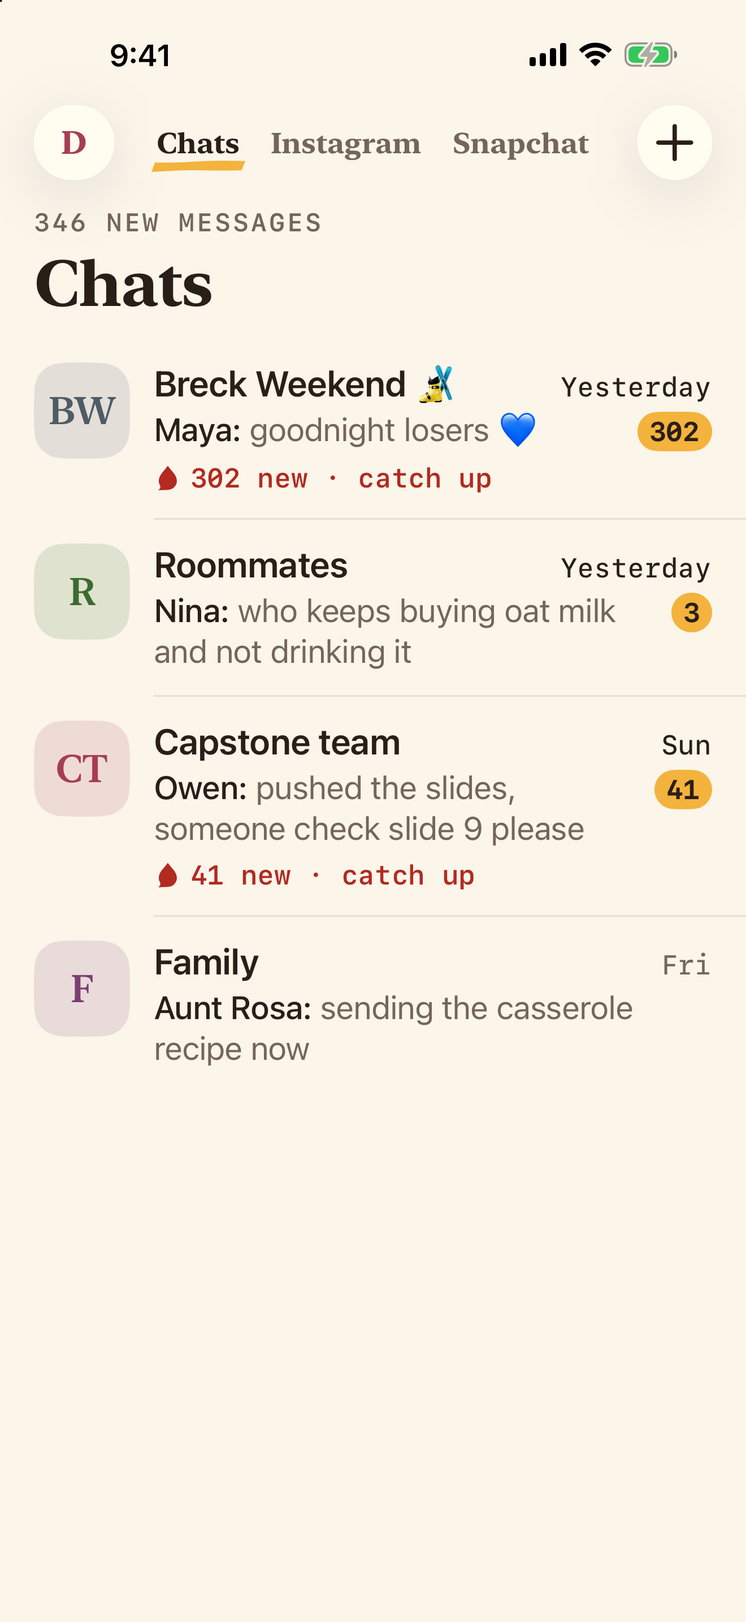
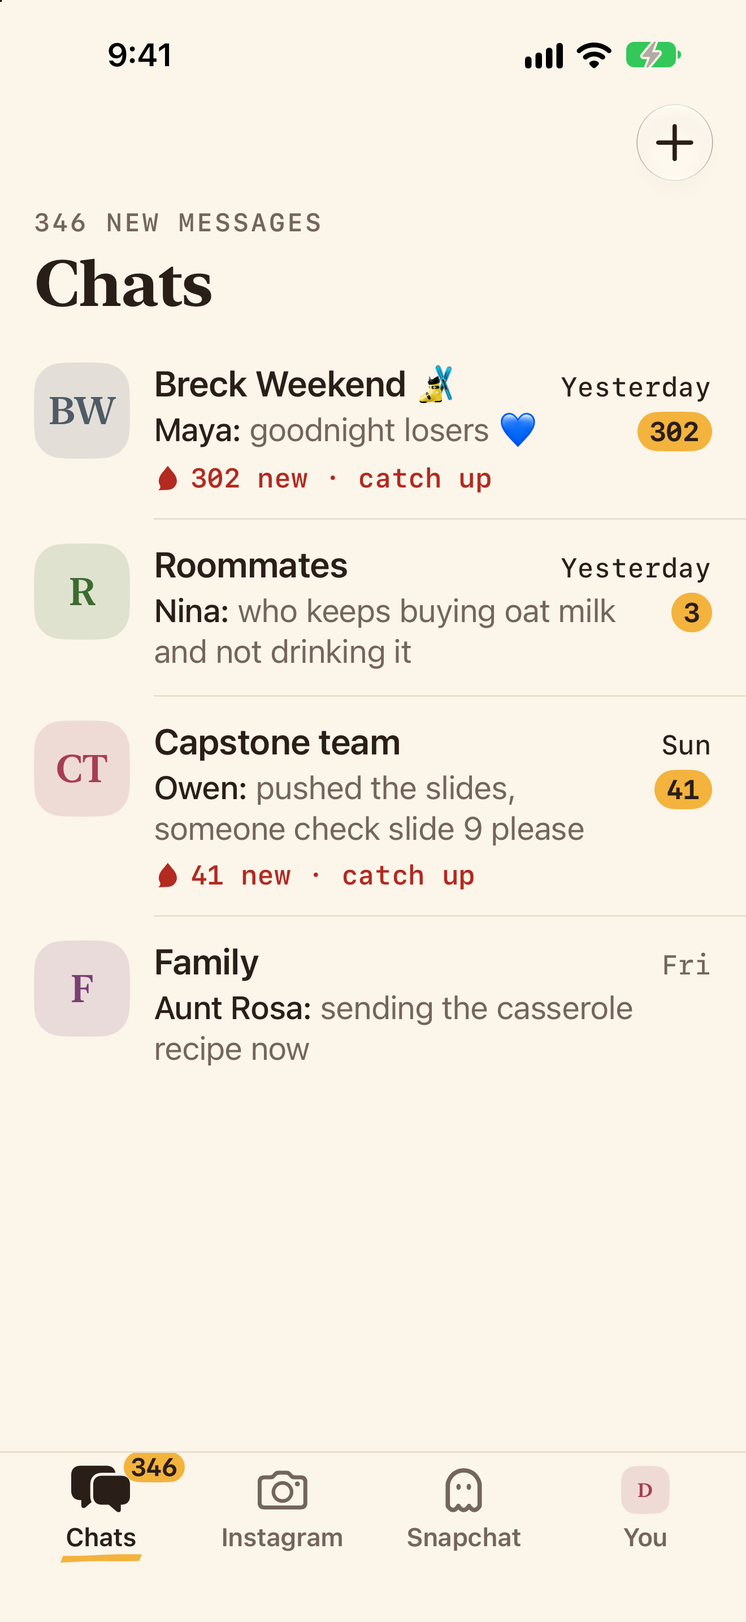
iOS tabs: docs and screenshots for the tab bar and the You tab
- the project notes: a Home tabs section (how tabs are kept, hosted roots,
  keyboard, previews, what was checked on Nov 3, 2026 and what wasn't),
  and the Settings, Photos and web-chat notes point at the You tab, the
  tab bar and the circle instead of the pager and the account button.
- README and DESIGN.md: the tab bar, the You tab, the Catch me up circle.
- Screenshots retaken where the old switcher, account button or pill
  showed: redesign inbox, home-instagram, home-snapchat and the XXL pair,
  people settings-sheet, photos inbox, speed inbox-loading, webchat
  web-instagram and web-snapchat. home-swipe-light (a pager mid-swipe)
  is gone with the pager.

diff --git a/docs/DESIGN.md b/docs/DESIGN.md
@@ -93,23 +93,28 @@ Always use text styles so Dynamic Type works. The wordmark is the only fixed siz
 
 The old purple names (`Theme.accent`, `aiGradient`, `aiDiagonal`, `aiWash`, `indigo`, `violet`, `pink`, `aiSymbol`, `aiName`) still compile but are deprecated and mapped flat onto this palette. Each warning is a spot still to restyle.
 
-## Pager
+## Tabs
 
-After sign-in, the home is three pages side by side: **Chats** (the inbox, first), **Instagram** and **Snapchat** (`ios/Ketchup/Views/HomePager.swift`). Swipe between them or tap a name. The app comes back to the page you were on last (`@AppStorage("home.page")`).
+After sign-in, the home is four tabs along the bottom: **Chats** (the inbox, first), **Instagram**, **Snapchat** and **You** (`ios/Ketchup/Views/HomeTabs.swift`). The app comes back to the tab you were on last (`@AppStorage("home.page")`).
 
 <p>
-<img src="screens/redesign/inbox-light.png" width="200" alt="Chats, with the switcher in its top bar">
-<img src="screens/redesign/home-swipe-light.png" width="200" alt="Mid-swipe: the mustard mark slides from Chats toward Instagram">
-<img src="screens/redesign/home-instagram-dark.png" width="200" alt="The Instagram page under the switcher, dark">
-<img src="screens/redesign/home-snapchat-light.png" width="200" alt="The Snapchat page under the switcher">
+<img src="screens/redesign/inbox-light.png" width="200" alt="Chats, with the tab bar along the bottom">
+<img src="screens/redesign/home-instagram-dark.png" width="200" alt="The Instagram tab with the Catch me up circle, dark">
+<img src="screens/redesign/home-snapchat-light.png" width="200" alt="The Snapchat tab's first-visit card">
+<img src="screens/photos/inbox-light.png" width="200" alt="David's photo as the You tab's icon">
 </p>
 
-- **The switcher** sits in the middle of the Chats page's top bar, between its glass buttons: the names in New York, ink for the page you're on, `inkSoft` for the rest, and a mustard `MarkerStroke` under the current one that slides along as the pages scroll. Like a bar title it keeps its size past the default text size (long-press shows it big at accessibility sizes). The other pages leave that row free above their own bar.
-- **Paging is the system's** (a paging `ScrollView`). A tap on a name scrolls there with `Motion.settle`, or jumps with Reduce Motion on.
-- **In a chat the pages stay put** and the switcher fades out (`Motion.fade`), so the chat's back swipe works and its title takes the middle of the bar. The Chats page says so through `HomePagerState.locked`.
-- **Over a web page** a sideways swipe still pages, unless the page can scroll sideways itself (zoomed in, a wide carousel): then the page gets it, and the switcher still works. Vertical scrolling and taps are always the page's. From the left edge the pager wins even when the site could go back; the bar's back button does that.
-- **A page is built the first time you head its way**, then kept: a web page doesn't load until you go there, and doesn't reload as you swipe past.
-- **`HomePage.all`** lists the pages, left to right, and `HomePage.content` says what each shows: another chat app is one more `.web(…)` in the list.
+- **The bar is paper, not glass.** Cream under a 1 pt hairline. The tab you're on is ink, with a filled icon and a mustard `MarkerStroke` under its name that slides over as you switch (a fade with Reduce Motion); the others are inkSoft and outlined. No ketchup: that's for the page's one button.
+- **The icons:** two bubbles for Chats, a camera for Instagram, a ghost drawn in the app for Snapchat (SF Symbols has none), and your own photo for You (your initials until there is one, and an ink ring when it's the tab you're on). Chats carries the inbox's unread count in a mustard badge.
+- **Like a system bar** it stops growing at Extra Extra Large text, and a long press shows a tab big at accessibility sizes (Large Content Viewer). VoiceOver reads it as a tab bar, with the unread count on Chats.
+- **Every tab keeps its place.** A tab is built the first time you open it, then kept: a web page loads once, stays signed in and doesn't reload as you switch back and forth.
+- **In a chat the bar steps aside** (`Motion.fade`), so the chat's input bar has the bottom of the screen, and comes back with the inbox. The Chats tab says so through `HomeTabsState.locked`.
+- **The keyboard covers the bar.** Over a site, the page keeps its size and the site moves its own message box, as in Safari.
+- **`HomeTab.all`** lists the tabs, left to right: another chat app is one more `.web(…)` in the list.
+
+### The You tab
+
+Your profile, built from Settings' and People's pieces (`ios/Ketchup/People/YouView.swift`): how many chats you're in as a kicker over your name in New York, your email and your photo (`AccountHeader`, also Settings' header); **Your people**, each with their photo and a chevron to their profile (`PeopleList`, as on Your people); an outline **Invite friends**; **Privacy** with Blocked people; and **Account** with a Settings row that opens Settings as a sheet. Like Settings, it has no ketchup button.
 
 ## Photos
 
@@ -119,14 +124,14 @@ A profile photo is a print pinned to the paper: the same rounded square as a mon
 <img src="screens/photos/crop-light.png" width="200" alt="Frame it: a mountain photo under a rounded-square window cut in the paper">
 <img src="screens/photos/chat-light.png" width="200" alt="Photos by the last bubble of each sender's run">
 <img src="screens/photos/info-dark.png" width="200" alt="Members with their photos, Sam with his monogram, dark">
-<img src="screens/photos/inbox-light.png" width="200" alt="David's photo on the account button">
+<img src="screens/photos/inbox-light.png" width="200" alt="David's photo as the You tab's icon">
 </p>
 
 | Piece | What it does |
 |---|---|
 | `AvatarCropper` | "Frame it": the picked photo under paper with a rounded-square window cut out; drag and pinch, the photo always covers the window. "Use photo" is the one ketchup button and says "Saving" until the upload is done. VoiceOver can zoom with swipe up and down. |
 | In a chat | Other people's photos sit by the last bubble of each run, bottom-aligned, 28 pt. Mine get none. |
-| Account button | My photo inside the top bar's glass button. Its menu adds, changes or removes the photo (until Settings takes that over). |
+| You tab | My photo is the You tab's icon (an ink ring around it when it's the tab you're on), and sits big in the You tab's header and in Settings'. |
 | `PhotoBubble` | A chat photo in the thread: its own shape (between 1:2 and 2.2:1), at most 240 pt wide, laid out from its stored size before it loads. The caption sits under it in the same bubble, on card paper (theirs) or ink (mine), with a text bubble's run corners. Tap to open. |
 | Upload ring | While my photo uploads: an ink ring filling a hairline track on a cream disc over the photo. "Not sent. Tap to retry" if it fails, like text. |
 | Composer | A photo button before the field (`ChatInputBar(onPhoto:)`). The picked photo waits above the field with an ink x to take it off; the field says "Add a caption", and the ketchup send works with or without words. |
@@ -210,19 +215,19 @@ Each chat's last 3 catch-ups and last 3 Ask answers stay on the phone (`Store/Sa
 
 ## Web chats (Instagram and Snapchat)
 
-Experimental and not released. `WebChatTab(source:)` (`ios/Ketchup/WebChat/`) is one page of the signed-in home per app: the site's own web page under a slim bar, and Catch me up for the thread that's open. Snapchat only runs its computer version, so its page is laid out 1024 points wide and shrunk to fit; pinch to zoom. Screenshots: `screens/webchat/` (the synthetic test threads, made-up people).
+Experimental and not released. `WebChatTab(source:)` (`ios/Ketchup/WebChat/`) is one tab of the signed-in home per app: the site's own web page under a slim bar, and Catch me up for the thread that's open. Snapchat only runs its computer version, so its page is laid out 1024 points wide and shrunk to fit; pinch to zoom. Screenshots: `screens/webchat/` (the synthetic test threads, made-up people).
 
 <p>
-<img src="screens/webchat/web-instagram-light.png" width="200" alt="Instagram's page under the slim bar, with the Catch me up pill">
+<img src="screens/webchat/web-instagram-light.png" width="200" alt="Instagram's page under the slim bar, with the Catch me up circle">
 <img src="screens/webchat/web-reading-light.png" width="200" alt="Reading 88 messages: the skim of the thread's own messages">
 <img src="screens/webchat/web-brief-light.png" width="200" alt="The brief, credited Read by Muse Spark · 88 Instagram messages">
-<img src="screens/webchat/web-snapchat-light.png" width="200" alt="Snapchat's computer page, shrunk to fit under the slim bar, with the Catch me up pill">
+<img src="screens/webchat/web-snapchat-light.png" width="200" alt="Snapchat's computer page, shrunk to fit under the slim bar, with the Catch me up circle">
 </p>
 
 | Piece | What it does |
 |---|---|
 | `WebChatBar` | The site's name in New York, `Kicker("Experimental")` under it, back and a … menu on the right. A hairline under it. Done only when the page is shown full screen. |
-| The Catch me up pill | The page's one ketchup thing, floating over the site: the drop, "Catch me up", and "Last 30, 80 or 120 messages" in mono. It's a menu, since the site doesn't say what's unread. While it reads: "Reading the chat", "Scrolling back for older messages". |
+| The Catch me up circle | The page's one ketchup thing: a small ketchup circle with the drop, floating on the right edge just above the site's message box, so it covers little of the chat. VoiceOver calls it "Catch me up". It's a menu of the last 30, 80 or 120 messages, since the site doesn't say what's unread. While it reads, it opens into a pill with a spinner and "Reading the chat". |
 | `WebChatIntro` | First visit only: a paper card that says plainly what happens (sign in on the site's own page, only the open chat, only on tap, your friends' messages go to Muse Spark, the catch-up stays on this phone and never on Ketchup's server, not released), plus the site's own note when it needs one (Snapchat: its computer page, shrunk to fit), with a ketchup "Got it". |
 | `WebChatSheet` | The same pieces as a chat's catch-up: `SheetBar`, `SkimmingView` on the thread's own messages, `CatchUpContent`, `AIErrorCard`, and Ask's `NotepadField` and `AnswerCard`. The byline names the source ("88 Instagram messages"); a quiet footer says what it covered and that it's experimental. |
 | `WebQuoteCard` | A source chip can't jump into the site, so it opens the whole message: the sender's monogram and color, the text, "About Sat 9:15 PM", "Kept on this phone with the catch-up." |
@@ -232,7 +237,7 @@ Experimental and not released. `WebChatTab(source:)` (`ios/Ketchup/WebChat/`) is
 
 ## Settings
 
-Settings (`ios/Ketchup/People/`) is a sheet from your initial at the top left of Chats. Screenshots: `screens/people/`.
+Settings (`ios/Ketchup/People/`) is a sheet from the You tab. Screenshots: `screens/people/`.
 
 <p>
 <img src="screens/people/settings-light.png" width="200" alt="Settings: your name and email, Change your name, the web chats' sign-outs, Account">
@@ -245,7 +250,7 @@ Settings (`ios/Ketchup/People/`) is a sheet from your initial at the top left of
 |---|---|
 | `SettingsSection("You", kicker:footer:)` | A `SectionTitle` (and a kicker, under it when both don't fit) over rows on one `paperCard`, hairlines between them. Rows that draw nothing take no room, and a section with no rows doesn't show, so a slot can sit empty. |
 | `SettingsRow(_:systemImage:value:detail:destructive:chevron:)` | One row: an `inkSoft` icon, the label, a value on the right, or a `detail` line under a long label ("Nothing saved"). `destructive` is `ketchupText` (Delete account). At accessibility sizes the value goes under the label. Use it as a button's or link's label with `.pressable`. |
-| The header | A "Settings" kicker over your name in New York and your email, with your monogram on the right. |
+| The header | `AccountHeader`: a "Settings" kicker over your name in New York and your email, with your photo (or monogram) on the right. The You tab uses it with how many chats you're in as the kicker. |
 | About | A colophon on paper: the drop, the `Wordmark`, the version in a kicker, `MuseByline`, and the hackathon line. |
 
 - **Settings has no ketchup button.** Delete account is the one red row; its page has the one ketchup button, "Delete my account", and a system alert asks once more.
@@ -310,13 +315,13 @@ xcrun simctl launch --terminate-running-process <udid> com.vibetemp.ketchup -scr
 |---|---|
 | `list` | Every name; tap one to open it |
 | `design` | This system, live. Add `-section brand`, `buttons`, `marker`, `type`, `people`, `paper` or `colors` to scroll there |
-| `signin`, `signin-code`, `name`, `home`, `home-instagram`, `inbox`, `inbox-loading`, `inbox-empty`, `new-chat`, `join`, `chat`, `chat-loading`, `chat-kept`, `chat-jump`, `chat-joined`, `info`, `icon` | The chat screens (`Debug/CorePreviewScreen.swift`). `chat-joined` is the end of Breck, read through Maya's goodnight, then Rowan (made up) joins and says hi: "Rowan joined" under "1 new" (`Debug/JoinedPreview.swift`). `home` opens the pager on Chats (the same screen as `inbox`), `home-instagram` on the Instagram page with the synthetic test thread, offline (add `-KetchupInstagramFixture NO` for the real site). `inbox-loading` and `chat-loading` are the skeletons; `chat-kept` opens Breck on a copy kept on the phone with no server. `chat-jump` stages the jump-to-message highlight; `icon` renders the app icon. `-reduceMotion YES` works here too, and `-send "on my way"` sends that 1.2 s in on the chat screens |
+| `signin`, `signin-code`, `name`, `home`, `home-instagram`, `home-snapchat`, `home-you`, `inbox`, `inbox-loading`, `inbox-empty`, `new-chat`, `join`, `chat`, `chat-loading`, `chat-kept`, `chat-jump`, `chat-joined`, `info`, `icon` | The chat screens (`Debug/CorePreviewScreen.swift`). `chat-joined` is the end of Breck, read through Maya's goodnight, then Rowan (made up) joins and says hi: "Rowan joined" under "1 new" (`Debug/JoinedPreview.swift`). `home` opens the tabs on Chats (the same screen as `inbox`); `home-instagram`, `home-snapchat` and `home-you` open on those tabs, the web ones on their synthetic test threads, offline (add `-KetchupInstagramFixture NO` for the real site, `-webchat.instagram.introSeen YES` to skip the first-visit card). `-openChat YES` opens Breck 1.2 s in, so the tab bar steps aside. `inbox-loading` and `chat-loading` are the skeletons; `chat-kept` opens Breck on a copy kept on the phone with no server. `chat-jump` stages the jump-to-message highlight; `icon` renders the app icon. `-reduceMotion YES` works here too, and `-send "on my way"` sends that 1.2 s in on the chat screens |
 | `ai-catchup`, `ai-checked`, `ai-loading`, `ai-loading-blank`, `ai-error`, `ai-empty`, `ai-ask`, `ai-ask-loading`, `ai-ask-error`, `ai-answer`, `ai-notfound` | The Muse Spark screens (`Debug/AIPreviewScreen.swift`). `ai-loading-blank` is the skim before the thread's messages are here. Add `-section for-you`, `plans`, `owes`, `questions` or `highlights` to scroll the brief there, `-delay 4` to land it late, `-reduceMotion YES` to see the Reduce Motion version |
 | `saved`, `saved-brief`, `saved-empty`, `saved-quote`, `saved-all` | Saved catch-ups (`Debug/SavedPreviewScreen.swift`) on a scratch store: Breck's Earlier catch-ups, opened on its catch-up, empty, a source shown as kept, and every chat's list in its Settings bar |
 | `brief-history`, `brief-nothing-new`, `brief-chat` | The catch-up sheet with Breck's last 3 catch-ups kept (`Debug/SavedPreviewScreen.swift`): Earlier catch-ups over a new catch-up; Catch me up with nothing new since the last one (add `-section earlier` for the row under it); and the thread, all read, with "Your catch-up" in its bar |
 | `store-check` | Not a screen: runs the on-device copy and saved catch-ups (`Store/DeviceStore.swift`) against a scratch folder and lists what passed (`Debug/StoreCheckScreen.swift`) |
 | `web-instagram`, `web-snapchat`, `web-intro`, `web-reading`, `web-brief`, `web-error`, `web-quote` | The web-chat screens (`Debug/WebChatPreviewScreen.swift`) on the synthetic threads. `web-instagram` and `web-snapchat` are each page on its bundled fixture; `web-brief` is a hand-written brief, not a Muse Spark call |
-| `settings`, `settings-sheet`, `settings-name`, `settings-delete`, `settings-blocked`, `profile`, `profile-blocked`, `report`, `report-sent`, `info-blocked`, `chat-profile`, `chat-report`, `people`, `people-empty`, `profile-contact`, `new-chat-people`, `invite` | Settings and the people screens (`Debug/PeoplePreviewScreen.swift`), on the demo chat's made-up friends. `settings` is full screen (add `-section web`, `account` or `about`); `settings-sheet` is the sheet as the inbox opens it; `chat-profile` and `chat-report` open over the Breck thread. `-renameTo Dave` here (and `-leave YES` on `home`) acts 1.2 s in; add `-serverRefuses YES` for the way back |
+| `settings`, `settings-sheet`, `settings-name`, `settings-delete`, `settings-blocked`, `profile`, `profile-blocked`, `report`, `report-sent`, `info-blocked`, `chat-profile`, `chat-report`, `people`, `people-empty`, `profile-contact`, `new-chat-people`, `invite` | Settings and the people screens (`Debug/PeoplePreviewScreen.swift`), on the demo chat's made-up friends. `settings` is full screen (add `-section web`, `account` or `about`); `settings-sheet` is the sheet as the You tab opens it; `chat-profile` and `chat-report` open over the Breck thread. `-renameTo Dave` here (and `-leave YES` on `home`) acts 1.2 s in; add `-serverRefuses YES` for the way back |
 | `photo-crop`, `photo-inbox`, `photo-chat`, `photo-info`, `photo-thread`, `photo-sending`, `photo-attach`, `photo-viewer`, `photo-catchup`, `photo-answer` | Photos (`Debug/PhotosPreviewScreen.swift`): the cropper on a made-up mountain photo; the inbox, the Breck thread and its members with made-up profile photos (`Debug/PreviewPhotos.swift`; Sam has none, to show the monogram); the end of Breck with photos in it, David's photo uploading (a pretend 20 s upload), one waiting in the composer, and the viewer on Maya's cabin; `photo-catchup` (add `-section highlights`) and `photo-answer` cite Maya's door-code photo with its thumbnail |
 
 Light and dark screenshots:

diff --git a/CLAUDE.md b/CLAUDE.md
@@ -82,6 +82,32 @@ the technical recipe. README.md is the judge-facing overview.
   Data: `Debug/PreviewData.swift` over `Debug/Fixtures/`; screens: `Debug/CorePreviewScreen.swift`, `Debug/AIPreviewScreen.swift`.
 - Keep preview code inside `#if DEBUG`; a Release build (`-configuration Release CODE_SIGNING_ALLOWED=NO`) must still compile.
 
+## Home tabs (`ios/Ketchup/Views/HomeTabs.swift`, since Nov 3, 2026)
+- After sign-in the home is a tab bar along the bottom: Chats, Instagram, Snapchat, You
+  (`HomeTab.all`; another chat app is one more `.web(…)`). It replaced the top swipe pager.
+  The bar is ours, not the system's glass: cream, a hairline, ink, a mustard mark under the
+  current tab, the inbox's unread count on Chats, your photo as You's icon. It stops growing
+  at Extra Extra Large text (long press shows a tab big). The app reopens on the last tab
+  (`home.page`).
+- Every tab is built the first time it's opened, then kept (hidden by opacity, never torn
+  down), so the Instagram and Snapchat web views load once and keep their place and sign-in.
+  Chats and You are each their own hosting root (`HostedPage`), full screen, so a chat's
+  input bar meets the keyboard as on a whole screen; a hidden root takes no touches. The web
+  tabs stay plain views between the status bar and the bar, and the home ignores the
+  keyboard, so a site's page keeps its size under it as in Safari (WebKit moves it).
+- While a chat is open the bar steps aside (`HomeTabsState.locked`, set by ChatsListView)
+  and the chat gets the whole screen. The inbox keeps its last row clear of the bar with
+  `safeAreaPadding`; You's pages get the bar as safe area (`additionalSafeAreaInsets`).
+- Previews: `home` (Chats), `home-instagram`, `home-snapchat` and `home-you`; the web tabs
+  open their synthetic threads (add `-webchat.instagram.introSeen YES`, or snapchat, to skip
+  the first-visit card). `-openChat YES` opens Breck 1.2 s in, so the bar steps aside.
+- Checked Nov 3, 2026 on the iPhone 17 Pro Max sim (iOS 27) with a temporary DEBUG probe
+  (since removed) that switched tabs 8 times on a timer: each web view loaded once and stayed
+  the same instance, a touch at mid-screen always reached the visible tab, the chat's field
+  moved from y 883 to 570 with the keyboard at 609 (once, not twice), and You's safe area
+  bottom was 90.3 pt (34 + the 56.3 pt bar). Not checked: typing into a site's message box
+  (needs a real tap) and the real sites.
+
 ## Kept on the phone, and skeletons (`ios/Ketchup/Store/`, `Design/Skeletons.swift`)
 - `DeviceStore` keeps the inbox (`inbox.json`: the my_chats rows and your profile) and each
   chat's newest 400 messages and members (`threads/<chat>.json`) in
@@ -171,12 +197,14 @@ safe to re-run) adds two made-up photos on the last day, so a catch-up can cite 
 
 ## Settings and people (migration 0007)
 Code: `ios/Ketchup/People/` (`SettingsView`, `AccountPages`, `SettingsPieces`, `Account.swift`,
-`ProfileView`, `ReportView`, `BlockedPeopleView`, `PeopleView` with `PeoplePicker`, `InviteView`,
-`PeopleStore`, `PeopleModels`),
+`ProfileView`, `ReportView`, `BlockedPeopleView`, `PeopleView` with `PeoplePicker` and `PeopleList`,
+`InviteView`, `YouView`, `PeopleStore`, `PeopleModels`),
 `Net/PeopleAPI.swift`, `WebChat/WebChatSignOut.swift`, edge functions `delete-account` and
-`report-alert`. Settings opens from the inbox's top-left
-photo (your initial until you add one) as a sheet; signing out waits for the sheet to close (`SettingsExit`, the sheet's
-`onDismiss` in `ChatsListView`), so it can't be left over sign-in.
+`report-alert`. The You tab (`YouView`) is your photo, name and email
+(`AccountHeader`, shared with Settings), your people (`PeopleList`), Invite friends, Blocked
+people (`PrivacySection`) and a Settings row. Settings opens from it as a sheet; signing out waits
+for the sheet to close (`SettingsExit`, the sheet's `onDismiss` in `YouView`), so it can't be
+left over sign-in.
 - `0007_people.sql` is one file applied live in parts, one `apply_migration` per slice, each
   named `0007_people_<part>` (so far `0007_people_account`, `0007_people_account_photos`,
   `0007_people_blocks_reports`, `0007_people_reports_index`, `0007_people_delete_files`,
@@ -196,7 +224,7 @@ photo (your initial until you add one) as a sheet; signing out waits for the she
   the RLS suite's "deleted account" checks (rolled back). A live test deletes a real account:
   use a throwaway account, never a seed one (their messages are the demo chat) or David's.
 - While a delete is on its way, its page hides Back and Settings holds Done and swipe-down;
-  if the sheet is gone anyway when it finishes, ChatsListView signs out at once. Leaving
+  if the sheet is gone anyway when it finishes, YouView signs out at once. Leaving
   (Sign out or a deleted account) forgets the Instagram and Snapchat sign-ins in Ketchup
   (`AppModel.leave`). Offline previews never touch the real website data: `leave` and the
   web-chat rows skip it while previewing.
@@ -244,7 +272,7 @@ photo (your initial until you add one) as a sheet; signing out waits for the she
   from the top view controller, then `MFMessageComposeViewController`; the simulator can't
   text, so it falls back to the share sheet. Tap-through needs a real phone.
 - Previews: `-screen settings` (add `-section web`, `account` or `about`), `settings-sheet`
-  (opened by the real inbox, `-KetchupOpenSettings`), `settings-name`, `settings-delete`,
+  (opened by the real You tab, `-KetchupOpenSettings`), `settings-name`, `settings-delete`,
   `settings-blocked`, `profile`, `profile-blocked`, `report`, `report-sent`, `info-blocked`,
   `chat-profile` and `chat-report` (the sheets opened from the thread), `people`,
   `people-empty`, `profile-contact`, `new-chat-people`, `invite`. The account email in
@@ -295,8 +323,8 @@ Code: `ios/Ketchup/Photos/` (`Avatar`, `AvatarCropper`, `ProfilePhotos` with
 - Source chips: `RefContext.photo` returns a message's small copy, and `RefChip` draws it
   where the sender's dot goes (`ChatView.refContext` passes it).
 - Settings has Add a photo (Change your photo once there is one) and Remove your photo,
-  under You; `.profilePhotoPicker` is on `SettingsView`. The inbox's top-left button and
-  Settings' header show your photo.
+  under You; `.profilePhotoPicker` is on `SettingsView`. The You tab's icon and header, and
+  Settings' header, show your photo.
 - Offline previews: `-screen photo-crop`, `photo-inbox`, `photo-chat`, `photo-info`,
   `photo-thread`, `photo-sending`, `photo-attach`, `photo-viewer`, `photo-catchup` (add
   `-section highlights`), `photo-answer`. The photos are drawn on the fly
@@ -313,9 +341,11 @@ Code: `ios/Ketchup/Photos/` (`Avatar`, `AvatarCropper`, `ProfilePhotos` with
 ## Web-chat catch-up: Instagram and Snapchat (experimental, not released)
 Code: `ios/Ketchup/WebChat/` is shared (`WebChatSource`, `WebChatBrowser`, `WebChatTab`,
 `WebChatSheet`, `WebChatAPI`); `ios/Ketchup/Instagram/` and `ios/Ketchup/Snapchat/` hold each
-site's reader and outline scripts and fixtures. The way in is the signed-in home's pager:
-`HomePage.all` in `Views/HomePager.swift` lists the pages (Chats, Instagram, Snapchat), and
-`.web(source)` hosts `WebChatTab(source:)`. Edge function `catch-up-text`, migrations
+site's reader and outline scripts and fixtures. The way in is the signed-in home's tab bar:
+`HomeTab.all` in `Views/HomeTabs.swift` lists the tabs (Chats, Instagram, Snapchat, You), and
+`.web(source)` hosts `WebChatTab(source:)`. Catch me up there is a small ketchup circle with the
+drop on the right edge, above the site's message box (VoiceOver: "Catch me up"); it opens into
+a "Reading the chat" pill while it reads. Edge function `catch-up-text`, migrations
 `0004_text_brief_usage` and `0005_text_brief_snapchat`. README has the summary.
 - The UI reuses `AI/` (CatchUpContent, SkimmingView, AIErrorCard, NotepadField, AnswerCard).
   `RefContext.hint` (default "Shows it in the chat") is the one seam: web chips show the whole
@@ -381,10 +411,10 @@ site's reader and outline scripts and fixtures. The way in is the signed-in home
   on both; an unauthenticated POST to each must return 401. The RLS suite covers the cap.
 - Simulator, offline (no sign-in, no network, no Muse Spark): `-screen web-instagram` and
   `-screen web-snapchat` (each page on its synthetic thread), `web-intro`, `web-reading`,
-  `web-brief`, `web-error`, `web-quote`; `home-instagram` and `home-snapchat` show the page in
-  the pager. `-KetchupSnapchatFixture NO` (or Instagram) keeps the real site in a preview.
-  Signed in: swipe to the Instagram or Snapchat page (or tap its name at the top) → `…` →
-  Testing → a test thread → Catch me up; `-KetchupInstagramFixture YES` (or Snapchat) opens the
+  `web-brief`, `web-error`, `web-quote`; `home-instagram` and `home-snapchat` show the page as
+  a tab. `-KetchupSnapchatFixture NO` (or Instagram) keeps the real site in a preview.
+  Signed in: tap the Instagram or Snapchat tab → `…` → Testing → a test thread → the ketchup
+  drop (Catch me up); `-KetchupInstagramFixture YES` (or Snapchat) opens the
   synthetic thread instead of the real site. The console prints counts only:
   `[snapchat] read N messages, …`, and each page as host and path with ids left out. Tap the
   menu once and wait: a second tap where the button was lands on "Last 120".

diff --git a/docs/screens/redesign/README.md b/docs/screens/redesign/README.md
@@ -1,6 +1,6 @@
 # Chat screens, redesigned
 
-The chat side of Ketchup on the diner-counter design system (`docs/DESIGN.md`): sign-in, the name step, the home pager (Chats, Instagram and Snapchat), the inbox and its sheets, the chat thread, the chat info sheet and the app icon. Taken on an iPhone 17 Pro Max simulator from the offline previews, November 3, 2026. Every file has a `-light` and a `-dark` version unless noted.
+The chat side of Ketchup on the diner-counter design system (`docs/DESIGN.md`): sign-in, the name step, the home's tabs (Chats, Instagram, Snapchat and You), the inbox and its sheets, the chat thread, the chat info sheet and the app icon. Taken on an iPhone 17 Pro Max simulator from the offline previews, November 3, 2026. Every file has a `-light` and a `-dark` version unless noted.
 
 <p>
 <img src="signin-light.png" width="200" alt="Sign-in">
@@ -14,22 +14,21 @@ The chat side of Ketchup on the diner-counter design system (`docs/DESIGN.md`): 
 | `signin` | Wordmark, "Missed 300 messages?", paper email field, "Email me a code" |
 | `signin-code` | The code step: 8 mono boxes in two halves, the resend countdown, the keyboard up |
 | `name` | "What do your friends call you?" with a monogram that follows the name |
-| `inbox` | The home's Chats page: the switcher in the top bar (a mustard mark under the page you're on), serif title, monogram rows, mustard badges, the "302 new · catch up" nudge from 15 unread |
+| `inbox` | The home's Chats tab: serif title, monogram rows, mustard badges, the "302 new · catch up" nudge from 15 unread, and the tab bar (a mustard mark under the tab you're on, the unread count on Chats) |
 | `inbox-empty` | "Nothing on the counter yet" |
-| `home-instagram` | The Instagram page: the switcher's row, then `WebChatTab` (its slim bar, the site, the Catch me up pill) on the synthetic test thread |
-| `home-snapchat` | The Snapchat page the first time it opens: the switcher's row, then the intro card (sign in on Snapchat's own page, pick the last 30, 80 or 120, nothing saved, the computer version shrunk to fit, not in the released app) and Got it |
-| `home-swipe-light` | Mid-swipe from Chats to Instagram: the mark slides along with the pages (light only) |
+| `home-instagram` | The Instagram tab: `WebChatTab` (its slim bar, the site, the ketchup Catch me up circle on the right) on the synthetic test thread, over the tab bar |
+| `home-snapchat` | The Snapchat tab the first time it opens: the intro card (sign in on Snapchat's own page, tap the ketchup drop and pick the last 30, 80 or 120, nothing saved, the computer version shrunk to fit, not in the released app) and Got it, over the tab bar |
 | `new-chat`, `join` | The "+" menu's sheets; Join has 6 code boxes |
 | `chat` | The top of Breck: the ketchup "Catch me up" (prefetch landed, so "ready"), the "302 NEW" mark |
 | `chat-middle` | Scrolled into the thread: runs from one sender, names in their person colors |
 | `chat-jump` | A ref-chip jump mid-hold: the mustard marker behind Maya's "$90 each" |
 | `info` | The invite code on a ticket, Share and Copy, members, Leave chat |
-| `inbox-xxl-light`, `home-instagram-xxl-light`, `chat-xxl-light` | Extra Extra Large text (light only); the switcher keeps its size, like a bar title |
+| `inbox-xxl-light`, `home-instagram-xxl-light`, `chat-xxl-light` | Extra Extra Large text (light only); the tab bar grows to this size and no further, like a system bar |
 | `icon`, `icon-home` | The app icon at 240, 60, 40 and 29 pt, and on the home screen (light only) |
 
 The old look is in `../foundation/` under the same names (`signin`, `inbox`, `inbox-empty`, `name`, `chat`, `info`).
 
-To retake one, launch a DEBUG build with its name (`chat-middle` is `chat` scrolled by hand, `home-swipe` is `home` held mid-swipe):
+To retake one, launch a DEBUG build with its name (`chat-middle` is `chat` scrolled by hand; add `-webchat.instagram.introSeen YES` to `home-instagram` to skip its first-visit card):
 
 ```bash
 xcrun simctl launch --terminate-running-process <udid> com.vibetemp.ketchup -screen chat-jump

diff --git a/README.md b/README.md
@@ -40,7 +40,7 @@ time are we leaving?" and get groaned at.
   invite friends with a 6-character code. Messages arrive in real time, and a small
   "Maya joined" line says when someone comes in.
 - **Profile photos.** Pick a photo, frame it in the square, and it shows by your
-  messages, in the member list and on your account button. No photo, no problem: your
+  messages, in the member list and on your You tab. No photo, no problem: your
   initials stand in.
 - **Photos in the chat.** Send a photo with a caption or without one. It shows in your
   bubble straight away with a ring filling as it uploads, keeps its shape in the thread,
@@ -352,10 +352,11 @@ Nobody moves their group chat to a new app. So this experiment tries the same ca
 on chats people already have: an Instagram DM thread or a Snapchat chat.
 
 - **How it works.** Instagram's or Snapchat's own website opens inside the app, on its own
-  page of the home screen. You sign in on their page and open a chat. Tap **Catch me up**,
-  pick the last 30, 80 or 120 messages (the page doesn't say what's unread), and Ketchup
-  reads that much of the conversation off the page. Then it runs the same Muse Spark
-  catch-up as its own chats through a second edge function,
+  tab along the bottom of the home screen, next to Chats. Switching tabs keeps the page
+  loaded and signed in. You sign in on their page and open a chat. Tap the ketchup drop on
+  the right (**Catch me up**), pick the last 30, 80 or 120 messages (the page doesn't say
+  what's unread), and Ketchup reads that much of the conversation off the page. Then it
+  runs the same Muse Spark catch-up as its own chats through a second edge function,
   [`catch-up-text`](supabase/functions/catch-up-text/index.ts): the same ref-tagged
   transcript, prompts, JSON schemas and validation, laid out with the same brief, tickets,
   diner check and Ask the chat. Each source chip shows the whole message it quotes.
@@ -436,7 +437,8 @@ no website inside Ketchup. You use the real Instagram app.
 
 ## Settings and your account
 
-Settings opens from your initial at the top left of Chats
+The **You** tab, last along the bottom, is your photo, name and email, your people (tap one
+for their profile), Invite friends and Blocked people. Settings opens from it
 ([`ios/Ketchup/People/`](ios/Ketchup/People)).
 
 - **Change your name.** Friends see it in your chats, and Muse Spark uses it in catch-ups.
@@ -448,11 +450,12 @@ Settings opens from your initial at the top left of Chats
   goes and what stays, then asks once more.
 - **Profiles, Block and Report.** Tap a name or photo in a chat, or a member in Chat
   info, for their profile: the chats you share, Add to your people, Block and Report.
-  Long press someone's message to report it. Settings → Blocked people has Unblock.
-- **Your people and Invite friends.** Settings → Your people lists who you've added. New
-  chat lets you add them straight in, no code needed. Invite friends (Settings, or the
-  inbox's +) sends a chat's invite code: Text a friend opens a Messages draft to someone
-  you pick, or share it anywhere.
+  Long press someone's message to report it. Blocked people (on the You tab and in
+  Settings) has Unblock.
+- **Your people and Invite friends.** The You tab (and Settings → Your people) lists who
+  you've added. New chat lets you add them straight in, no code needed. Invite friends (the
+  You tab, Settings, or the inbox's +) sends a chat's invite code: Text a friend opens a
+  Messages draft to someone you pick, or share it anywhere.
 
 ## Built during the event
 

diff --git a/docs/screens/photos/README.md b/docs/screens/photos/README.md
@@ -8,7 +8,7 @@ The photos are made up, drawn by the app in preview mode (`ios/Ketchup/Debug/Pre
 <img src="crop-light.png" width="200" alt="Frame it">
 <img src="chat-light.png" width="200" alt="Profile photos in the thread">
 <img src="info-light.png" width="200" alt="Members with photos">
-<img src="inbox-light.png" width="200" alt="The account button">
+<img src="inbox-light.png" width="200" alt="The You tab">
 </p>
 <p>
 <img src="thread-light.png" width="200" alt="Photos sent in the thread">
@@ -26,7 +26,7 @@ The photos are made up, drawn by the app in preview mode (`ios/Ketchup/Debug/Pre
 | `crop` | "Frame it": the picked photo under a rounded-square window cut in the paper, "Use photo" and Cancel |
 | `chat` | The Breck thread: each sender's profile photo by the last bubble of their run (Theo's dog, Maya's skier) |
 | `info` | Chat info: members with their photos, Sam with his monogram (he has no photo) |
-| `inbox` | The Chats page: David's photo on the account button, top left |
+| `inbox` | The Chats tab: David's photo as the You tab's icon, bottom right |
 | `thread` | The end of Breck: Maya's cabin, Jordan's mountains without a caption, Maya's view from the deck, and her photo of the door code |
 | `sending` | David's photo of Pickles the dog on its way up: the ink ring about half full (a pretend upload) |
 | `attach` | A picked photo waiting above the field with its x, the caption typed, the ketchup send ready |
